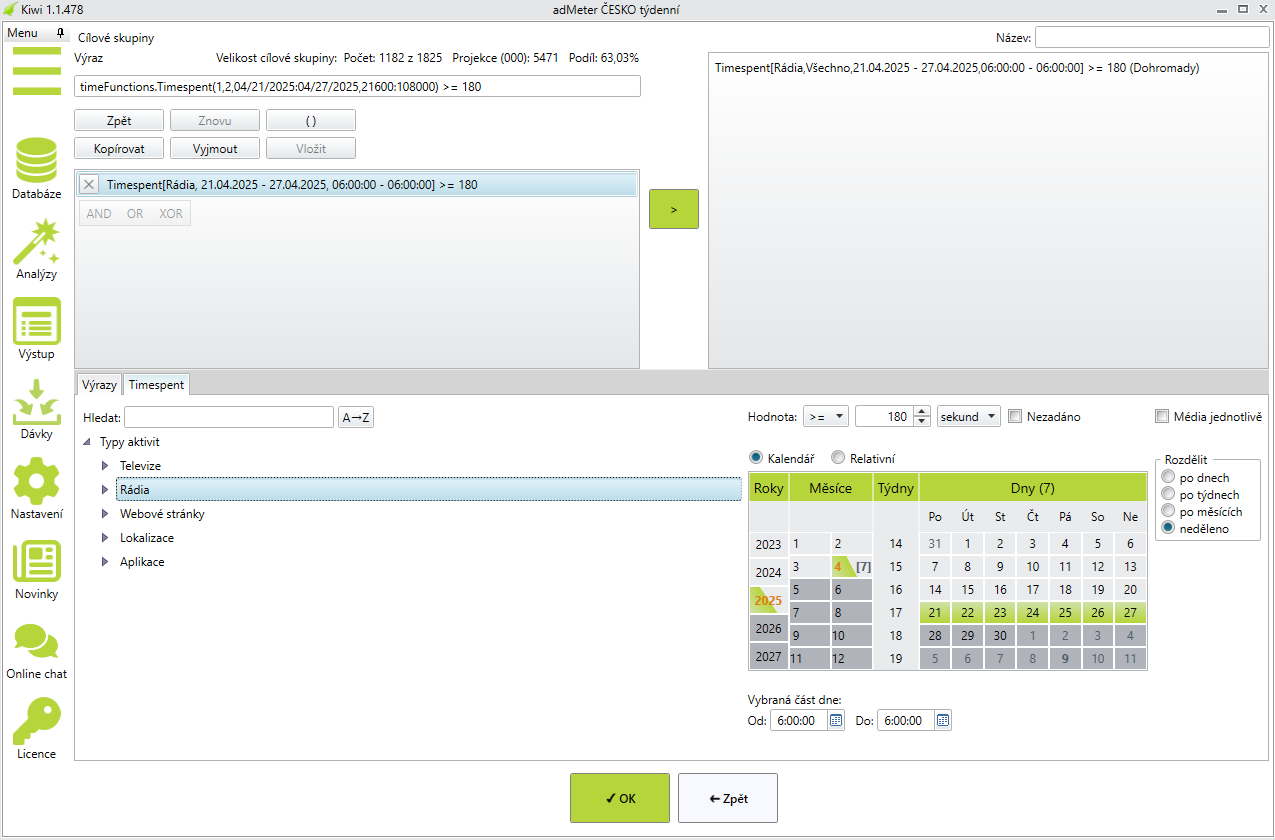
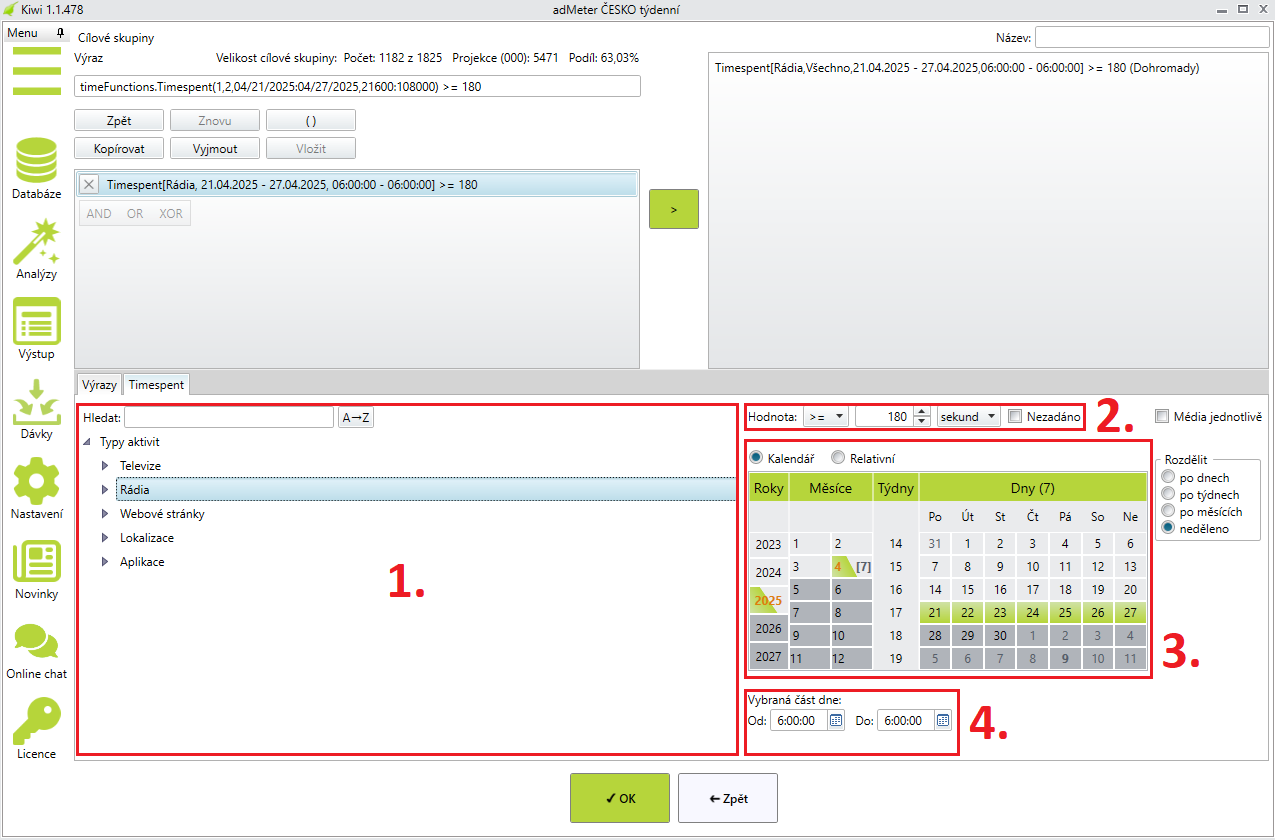
Timespent kompletní popis

diff --git a/kiwi-timespent/index.html b/kiwi-timespent/index.html
@@ -61,7 +61,7 @@
   <!-- <script src="https://kiwifenix.lerach.cz/js/news.js"></script> -->
 </head>
 
-<body id="p-0 page-top">
+<body id="p-0 page-top" style="padding-left: 0;">
 
   <div id="main-content" style="display: block;">
 
@@ -71,17 +71,38 @@
 
           <div id="main-content">
             <h2 id="feature-heading-0" style="border-top: 0; padding-top: 0; margin-top: 0;">Timespent</h2>
-            <p>Funkce timespent slouží k definování cílové skupiny na základě konzumace mediálního obsahu.</p>
+            <p>Funkce timespent slouží k definování cílové skupiny na základě konzumace mediálního obsahu. Tuto cílovou skupinu lze pak použít v Kiwi v libovolné analýze (respondentů, časové, pořadové, ...). Její definice se zpřístupní v editoru cílových skupin při kliknutí dole na záložku Timespent.</p>
+            <p> Cílová skupina definovaná pomocí funkce timespent obsahuje respondenty, kteří splnili podmínku minimální doby konzumace vybraných médií <i>v průměrném dni</i> a navíc měřili (byli v datech součástí panelu) alespoň <i>70% dní</i> z vybraného období</span>. Průměrná doba konzumace médií každého respondenta se počítá pouze ze dnů, kdy byl respondent v datech. Podmínka měření 70% dní je zvolená kvůli tomu, abychom zohledňovali pouze respondenty, kteří jsou většinu dnů v období součástí měření.</p>
 
-            <img src="timespent.png" alt="Kiwi - timespent" title="Kiwi - timespent">
+            <img src="timespent.png" alt="Kiwi - timespent" title="Kiwi - timespent" class="rounded mx-auto d-block">
+
+            <p>Timespent se skládá ze 4 základních parametrů (viz obrázek):</p>
+            <ol>
+              <li><b>Média</b> - v levé části lze vybrat média či celé médiatypy, pro které výraz timespent definujeme.</li>
+              <li><b>Časová podmínka</b> - v pravé části nahoře lze definovat časovou podmínku, kterou musí respondenti splnit pro zařazení do cílové skupiny.</li>
+              <li><b>Období</b> - za jaké období timespent definujeme. Lze formulovat také pomocí relativního období, kde si uživatel může vybrat typ, posun a periodicitu období relativně vůči datu výpočtu.</li>
+              <img src="datum-relativni.png" alt="Datum relativní" title="Datum relativní">
+              <li><b>Vybraná část dne</b> - v pravé části dole lze omezit část dne, pro kterou budeme konzumaci daného média počítat. Může sloužit např. k vymezení diváků či posluchačů konkrétního pořadu. Ve&nbsp;výchozím stavu vybraná část dne pokrývá celý programový den.</li>
+            </ol>
 
             <h4>Pokročilé nastavení</h4>
             <ul>
-              <li>Časová hodnota <b>Nezadáno</b> - v tomto případě splní podmínku timespent ti respondenti, kteří neměří 70% času vybraného období.</li>
+              <li>Časová hodnota <b>Nezadáno</b> - v tomto případě splní podmínku timespent respondenti, kteří neměří (nejsou v datech) 70% času vybraného období.</li>
               <li>Volba <b>Média jednotlivě</b> - v případě výběru více médií se při kliknutí na šipku vytvoří více timespent výrazů pro každé vybrané médium.</li>
-              <li>Volba <b>Rozdělit</b> časové úseky - podobně jako u předchozí volby vygeneruje při kliknutí na šipku více timespent výrazů pro rozdělené období podle zvoleného časového intervalu.</li>
+              <li>Volba <b>Rozdělit</b> časové úseky - podobně jako u předchozí volby se při kliknutí na šipku vygeneruje více timespent výrazů pro rozdělené období podle zvoleného intervalu.</li>
+              <li><b>Typ zařízení</b> - pro internetová média lze při definici výrazu timespent vybrat, z jakého zařízení se budou časové úseky počítat. Ve výchozím stavu jsou vybrané všechny typy zařízení.</li>
+              <img src="typ-zarizeni.png" alt="Typ zařízení" title="Typ zařízení">
             </ul>
 
+            <h4>Příklady a poznámky</h4>
+            <ul>
+              <li>Pokud respondent sledoval televizní kanál jeden den 2 hodiny a zbytek měsíce ne (ale byl součástí panelu), tak <b>splní</b> podmínku timespent na 3 minuty, protože průměrný den sledoval: 120&nbsp;minut&nbsp;/&nbsp;30&nbsp;dní&nbsp;=&nbsp;4 minuty.</li>
+              <li>Pokud respondent poslouchal rádiovou stanici každý druhý den 5 minut (a byl součástí dat každý den), tak <b>nesplní</b> podmínku timespent na 3 minuty, protože průměrný den poslouchal pouze 2,5 minuty.</li>
+              <li>Pokud respondent navštěvoval internetovou stránku každý den 10 minut v prvních 15-ti dnech v měsíci, ale v druhých 15-ti dnech v měsíci nebyl součástí dat, tak <b>nesplní</b> podmínku timespent na 3 minuty, protože sice má průměrnou dobu návštěvy internetové stránky 10 minut, ale byl součástí panelu pouze 50% dní.</li>
+            </ul>
+
+            Z důvodu možné obměny panelu nedoporučujeme vytvářet cílové skupiny s timespent výrazem na příliš dlouhém období. Navíc by mělo období v timespent výrazu zhruba odpovídat období v analýze, ve které je cílová skupina s timespent použitá. Timespent vybere konkrétní respondenty z definovaného období a ti by nemuseli odpovídat respondentům načteným v analýze z jiného období. 
+            
           </div>
         </div>
       </section>
